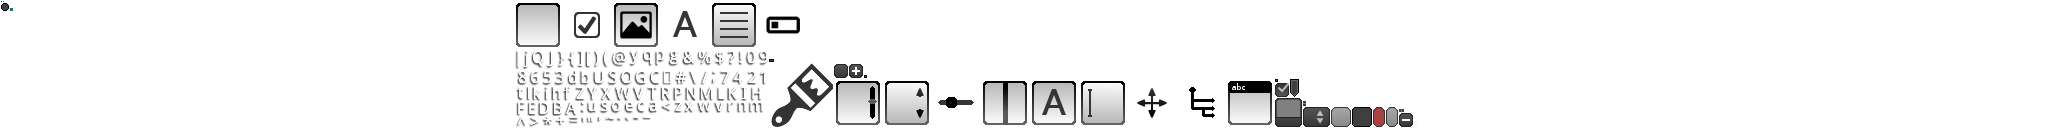
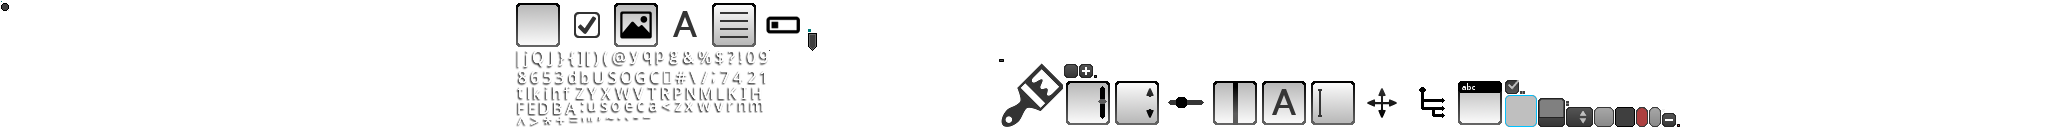
put scene2d menu in menuscreen

Changed region(s): [[0.375, 0.5, 0.8438, 1.0], [0.375, 0.25, 0.4062, 0.375]]

diff --git a/core/src/com/jamador/gravity/screens/TestScreen.java b/core/src/com/jamador/gravity/screens/TestScreen.java
@@ -3,17 +3,11 @@ package com.jamador.gravity.screens;
 import com.badlogic.gdx.*;
 import com.badlogic.gdx.graphics.GL20;
 import com.badlogic.gdx.graphics.OrthographicCamera;
-import com.badlogic.gdx.graphics.Texture;
-import com.badlogic.gdx.graphics.g2d.BitmapFont;
-import com.badlogic.gdx.graphics.g2d.Sprite;
 import com.badlogic.gdx.graphics.g2d.SpriteBatch;
 
 import com.badlogic.gdx.scenes.scene2d.Actor;
 import com.badlogic.gdx.scenes.scene2d.Stage;
-import com.badlogic.gdx.scenes.scene2d.ui.Skin;
-import com.badlogic.gdx.scenes.scene2d.ui.Stack;
-import com.badlogic.gdx.scenes.scene2d.ui.Table;
-import com.badlogic.gdx.scenes.scene2d.ui.TextButton;
+import com.badlogic.gdx.scenes.scene2d.ui.*;
 import com.badlogic.gdx.scenes.scene2d.utils.ChangeListener;
 import com.badlogic.gdx.utils.viewport.ScreenViewport;
 import com.jamador.gravity.GravityGame;
@@ -21,8 +15,6 @@ import com.jamador.gravity.GravityGame;
 public class TestScreen implements Screen, InputProcessor {
     GravityGame game;
     private InputMultiplexer inputMultiplexer;
-
-    private int screenWidth, screenHeight;
 
     /*
     Scene2D.UI
@@ -35,14 +27,10 @@ public class TestScreen implements Screen, InputProcessor {
      */
     SpriteBatch batch;
     OrthographicCamera camera;
-    Sprite ball;
 
 
     public TestScreen(final GravityGame game) {
         this.game = game;
-        screenWidth = Gdx.graphics.getWidth();
-        screenHeight = Gdx.graphics.getHeight();
-
 
         /*
         spritebatch
@@ -51,40 +39,41 @@ public class TestScreen implements Screen, InputProcessor {
         camera = new OrthographicCamera(160f, 100f);
         camera.position.set(80, 50, 0);
         camera.update();
-        ball = new Sprite(new Texture(Gdx.files.internal("ball.png")));
-        ball.setSize(5, 5);
-        ball.setCenter(80, 50);
 
         /*
         scene2d
          */
         stage = new Stage(new ScreenViewport());
         skin = new Skin(Gdx.files.internal("skin/uiskin.json"));
-        TextButton startButton = new TextButton("Start", skin, "default");
-        TextButton settingsButton = new TextButton("Settings", skin, "default");
-        TextButton quitButton = new TextButton("Quit", skin, "default");
-        startButton.addListener(new ChangeListener() {
+        TextButton start = new TextButton("Start", skin, "text-only");
+        TextButton settings = new TextButton("Settings", skin, "text-only");
+        TextButton quit = new TextButton("Quit", skin, "text-only");
+        CheckBox sound = new CheckBox("", skin, "sound");
+        start.addListener(new ChangeListener() {
             public void changed(ChangeEvent e, Actor a) {
                 game.setScreen(game.gameScreen);
             }
         });
-        settingsButton.addListener(new ChangeListener() {
+        settings.addListener(new ChangeListener() {
             public void changed(ChangeEvent e, Actor a) {
                 System.out.println("Settings");
             }
         });
-        quitButton.addListener(new ChangeListener() {
+        quit.addListener(new ChangeListener() {
             public void changed(ChangeEvent e, Actor a) {
                 Gdx.app.exit();
             }
         });
         Table table = new Table();
         table.setFillParent(true);
-        table.add(startButton).fillX().space(10);
+        table.add(start).fillX().space(10);
         table.row();
-        table.add(settingsButton).fillX().space(10);
+        table.add(settings).fillX().space(10);
         table.row();
-        table.add(quitButton).fillX().space(10);
+        table.add(quit).fillX().space(10);
+        table.row();
+        table.add(sound);
+
         stage.addActor(table);
 
         inputMultiplexer = new InputMultiplexer(stage, this);
@@ -96,8 +85,6 @@ public class TestScreen implements Screen, InputProcessor {
      */
     @Override
     public void show() {
-        screenWidth = Gdx.graphics.getWidth();
-        screenHeight = Gdx.graphics.getHeight();
         Gdx.input.setCatchBackKey(true);
         Gdx.input.setInputProcessor(inputMultiplexer);
     }
@@ -110,7 +97,6 @@ public class TestScreen implements Screen, InputProcessor {
          */
         batch.setProjectionMatrix(camera.combined);
         batch.begin();
-        ball.draw(batch);
         batch.end();
 
         stage.act(Gdx.graphics.getDeltaTime());
@@ -119,8 +105,6 @@ public class TestScreen implements Screen, InputProcessor {
 
     @Override
     public void resize(int width, int height) {
-        this.screenWidth = Gdx.graphics.getWidth();
-        this.screenHeight = Gdx.graphics.getHeight();
     }
 
     @Override

diff --git a/core/src/com/jamador/gravity/screens/MenuScreen.java b/core/src/com/jamador/gravity/screens/MenuScreen.java
@@ -8,11 +8,11 @@ import com.badlogic.gdx.InputProcessor;
 import com.badlogic.gdx.Screen;
 import com.badlogic.gdx.Gdx;
 import com.badlogic.gdx.graphics.GL20;
-import com.badlogic.gdx.graphics.Texture;
-import com.badlogic.gdx.graphics.g2d.BitmapFont;
-import com.badlogic.gdx.graphics.g2d.GlyphLayout;
-import com.badlogic.gdx.graphics.g2d.Sprite;
-import com.badlogic.gdx.graphics.g2d.SpriteBatch;
+import com.badlogic.gdx.scenes.scene2d.Actor;
+import com.badlogic.gdx.scenes.scene2d.Stage;
+import com.badlogic.gdx.scenes.scene2d.ui.*;
+import com.badlogic.gdx.scenes.scene2d.utils.ChangeListener;
+import com.badlogic.gdx.utils.viewport.ScreenViewport;
 
 /*
 gravity
@@ -22,26 +22,46 @@ import com.jamador.gravity.GravityGame;
 public class MenuScreen implements Screen, InputProcessor {
     private GravityGame game;
 
-    private int screenWidth, screenHeight;
+    /*
+    Scene2D.UI
+     */
+    Skin skin;
+    Stage stage;
 
-    private BitmapFont font100, font75, font50, font35, font25, font20;
-    private SpriteBatch textRenderer;
-
-    public MenuScreen(GravityGame game) {
+    public MenuScreen(final GravityGame game) {
         this.game = game;
-        screenWidth = Gdx.graphics.getWidth();
-        screenHeight = Gdx.graphics.getHeight();
 
         /*
-        text
+        scene2d
          */
-        font20 = new BitmapFont(Gdx.files.internal("font5.fnt"), Gdx.files.internal("font5.png"), false);
-        font25 = new BitmapFont(Gdx.files.internal("font4.fnt"), Gdx.files.internal("font4.png"), false);
-        font35 = new BitmapFont(Gdx.files.internal("font3.fnt"), Gdx.files.internal("font3.png"), false);
-        font50 = new BitmapFont(Gdx.files.internal("font2.fnt"), Gdx.files.internal("font2.png"), false);
-        font75 = new BitmapFont(Gdx.files.internal("font1.fnt"), Gdx.files.internal("font1.png"), false);
-        font100 = new BitmapFont(Gdx.files.internal("font0.fnt"), Gdx.files.internal("font0.png"), false);
-        textRenderer = new SpriteBatch();
+        stage = new Stage(new ScreenViewport());
+        skin = new Skin(Gdx.files.internal("skin/uiskin.json"));
+        TextButton start = new TextButton("Start", skin, "text-only");
+        TextButton settings = new TextButton("Settings", skin, "text-only");
+        TextButton quit = new TextButton("Quit", skin, "text-only");
+        start.addListener(new ChangeListener() {
+            public void changed(ChangeEvent e, Actor a) {
+                game.setScreen(game.gameScreen);
+            }
+        });
+        settings.addListener(new ChangeListener() {
+            public void changed(ChangeEvent e, Actor a) {
+                System.out.println("Settings");
+            }
+        });
+        quit.addListener(new ChangeListener() {
+            public void changed(ChangeEvent e, Actor a) {
+                Gdx.app.exit();
+            }
+        });
+        Table table = new Table();
+        table.setFillParent(true);
+        table.add(start).fillX().space(10);
+        table.row();
+        table.add(settings).fillX().space(10);
+        table.row();
+        table.add(quit).fillX().space(10);
+        stage.addActor(table);
     }
 
     /*
@@ -49,9 +69,7 @@ public class MenuScreen implements Screen, InputProcessor {
      */
     @Override
     public void show() {
-        screenWidth = Gdx.graphics.getWidth();
-        screenHeight = Gdx.graphics.getHeight();
-        Gdx.input.setInputProcessor(this);
+        Gdx.input.setInputProcessor(stage);
         Gdx.input.setCatchBackKey(true);
     }
 
@@ -60,18 +78,14 @@ public class MenuScreen implements Screen, InputProcessor {
         Gdx.gl20.glClear(GL20.GL_COLOR_BUFFER_BIT);
 
         /*
-        text
+        scene2d
          */
-        textRenderer.begin();
-        GlyphLayout layout = new GlyphLayout(font100, "GRAVITY");
-        font100.draw(textRenderer, "GRAVITY", (screenWidth / 2) - (layout.width / 2), (screenHeight / 2) + (layout.height / 2));
-        textRenderer.end();
+        stage.act(Gdx.graphics.getDeltaTime());
+        stage.draw();
     }
 
     @Override
     public void resize(int width, int height) {
-        this.screenWidth = Gdx.graphics.getWidth();
-        this.screenHeight = Gdx.graphics.getHeight();
     }
 
     @Override
@@ -80,7 +94,7 @@ public class MenuScreen implements Screen, InputProcessor {
 
     @Override
     public void resume() {
-        Gdx.input.setInputProcessor(this);
+        Gdx.input.setInputProcessor(stage);
         Gdx.input.setCatchBackKey(true);
     }
 

diff --git a/core/src/com/jamador/gravity/models/GravityObject.java b/core/src/com/jamador/gravity/models/GravityObject.java
@@ -78,8 +78,10 @@ public class GravityObject {
         arrow = new Sprite(new Texture(Gdx.files.internal("arrow.png")));
         arrow.setSize(radius * 2, radius * 2);
         arrow.setOriginCenter();
+        /*
         path = new Array<Sprite>();
         pathTexture = new Texture(Gdx.files.internal("ball.png"));
+        */
 
         netForce = new Vector2();
         singleForce = new Vector2();
@@ -104,7 +106,6 @@ public class GravityObject {
 
         /*
         path
-         */
         lifetime++;
         if (path.size > 10) {
             path.removeIndex(0);
@@ -122,6 +123,7 @@ public class GravityObject {
             s.setOriginCenter();
         }
 
+         */
         /*
         sound
          */
@@ -133,10 +135,10 @@ public class GravityObject {
     public void render(SpriteBatch batch) {
         /*
         path
-         */
         for (Sprite s: path) {
             s.draw(batch);
         }
+         */
 
         /*
         ball

diff --git a/core/src/com/jamador/gravity/renderers/GameRenderer.java b/core/src/com/jamador/gravity/renderers/GameRenderer.java
@@ -135,7 +135,7 @@ public class GameRenderer {
         /*
         box2d debug
          */
-        //debugRenderer.render(world.getWorld(), camera.combined);
+        debugRenderer.render(world.getWorld(), camera.combined);
     }
 
     public OrthographicCamera getCamera() {

diff --git a/core/src/com/jamador/gravity/models/GameWorld.java b/core/src/com/jamador/gravity/models/GameWorld.java
@@ -214,7 +214,7 @@ public class GameWorld {
         return gravitySystem.getObjects();
     }
 
-    World getWorld() {
+    public World getWorld() {
         return world;
     }
 
